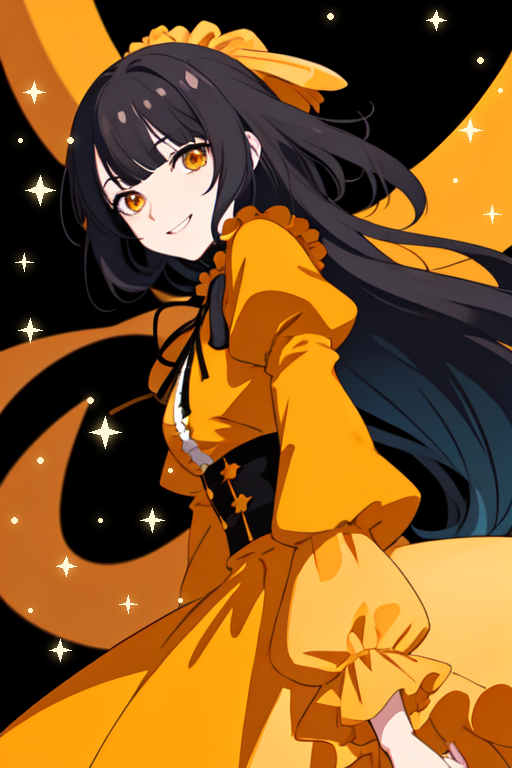
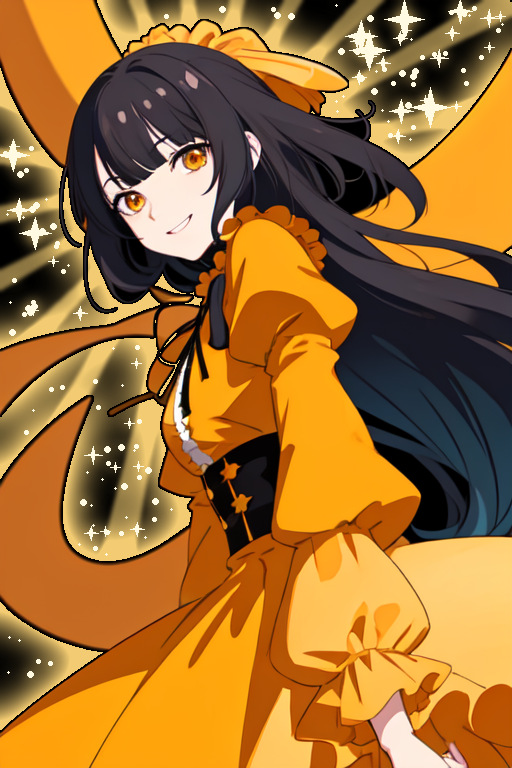
アニメB 03: 後光・光線・キラキラを背景だけに追加(人物の画素は変更なし)
Claude-Session: https://claude.ai/code/session_0113YPYwcnftxFc8SGzBWbWR

diff --git a/scripts/add_sparkles.py b/scripts/add_sparkles.py
@@ -1,44 +1,116 @@
-"""背景にキラキラ(4つの尖った星と小さな光の粒)を足すプログラム。人物には触れない(位置を手で指定)。
+"""黒い背景に、金色の後光・放射状の光線・たくさんのキラキラを足すプログラム。人物には一切触れない。
 
-使い方: python scripts/add_sparkles.py 元画像.png 出力.png
-(ユーザーの個別の依頼で、03番のBに使った。部分修正の一種なので、依頼があるときだけ使うこと。)
+人物のまわりの「ふちが黒(0,0,0)でつながった背景」だけを見つけて、その上にだけ光を重ねる。
+背景以外の画素(人物・服・オレンジのうねり)は、1画素も変わらない。
+使い方: python scripts/add_sparkles.py 元画像.png 出力.png [--center 200 170]
+(ユーザーの個別の依頼で、アニメB・03番に使った。部分修正の一種なので、依頼があるときだけ使うこと。)
 """
+import math
 import sys
+from collections import deque
 
 import numpy as np
 from PIL import Image, ImageDraw, ImageFilter
 
-src, dst = sys.argv[1], sys.argv[2]
-im = Image.open(src).convert("RGB")
-W, H = im.size
-# (x, y, 半径): 背景(黒・オレンジのうねり)の上だけに置く。髪・服の上には置かない
-STARS = [(34, 92, 11), (40, 190, 15), (24, 262, 9), (105, 432, 16), (152, 520, 12), (66, 566, 10), (128, 604, 9),
-         (436, 20, 10), (470, 130, 12), (492, 214, 9), (30, 330, 12), (60, 650, 11)]
-DOTS = [(70, 140, 3), (20, 140, 2), (90, 400, 3), (170, 470, 2), (40, 460, 3), (180, 600, 2), (480, 60, 3), (455, 180, 2),
-        (500, 90, 2), (14, 520, 3), (100, 520, 2), (30, 610, 2), (330, 16, 3)]
+args = sys.argv[1:]
+cx, cy = 200, 170
+if "--center" in args:
+    i = args.index("--center")
+    cx, cy = int(args[i + 1]), int(args[i + 2])
+    del args[i:i + 3]
+src, dst = args[0], args[1]
+img = Image.open(src).convert("RGB")
+W, H = img.size
+a = np.asarray(img, dtype=np.int32)
+
+# 1. 背景 = 画像のふちから続く純黒の領域(帯・ベルトなど人物の中の黒は含めない)
+black = a.max(axis=2) <= 8
+bg = np.zeros((H, W), bool)
+dq = deque()
+for x in range(W):
+    for y in (0, H - 1):
+        if black[y, x] and not bg[y, x]:
+            bg[y, x] = True
+            dq.append((y, x))
+for y in range(H):
+    for x in (0, W - 1):
+        if black[y, x] and not bg[y, x]:
+            bg[y, x] = True
+            dq.append((y, x))
+while dq:
+    y, x = dq.popleft()
+    for ny, nx in ((y + 1, x), (y - 1, x), (y, x + 1), (y, x - 1)):
+        if 0 <= ny < H and 0 <= nx < W and black[ny, nx] and not bg[ny, nx]:
+            bg[ny, nx] = True
+            dq.append((ny, nx))
+# ふち1画素は人物の輪郭になじませるため背景から外す
+bg_img = Image.fromarray((bg * 255).astype(np.uint8)).filter(ImageFilter.MinFilter(3))
+bg = np.asarray(bg_img) > 0
+
+GOLD = np.array([255, 214, 120], float)
+WHITE = np.array([255, 250, 225], float)
+
+# 2. 後光: 人物(背景でない所)のまわりがやわらかく金色に光る
+person = Image.fromarray(((~bg) * 255).astype(np.uint8)).filter(ImageFilter.GaussianBlur(20))
+halo = np.asarray(person, float)[..., None] / 255.0
+halo = np.clip(halo * 2.0, 0, 1) * 0.95
+
+# 3. 放射状の光線(頭のうしろから)
+rays = Image.new("L", (W, H), 0)
+d = ImageDraw.Draw(rays)
+n = 22
+for k in range(n):
+    ang = 2 * math.pi * k / n + 0.07
+    half = math.pi / n * 0.28
+    R = 1200
+    pts = [(cx, cy), (cx + R * math.cos(ang - half), cy + R * math.sin(ang - half)),
+           (cx + R * math.cos(ang + half), cy + R * math.sin(ang + half))]
+    d.polygon(pts, fill=255)
+rays = np.asarray(rays.filter(ImageFilter.GaussianBlur(2)), float)[..., None] / 255.0 * 0.55
+
+# 4. キラキラ(大小の4つ星と光の粒)。背景だけに置く
+rng = np.random.default_rng(7)
+star = Image.new("L", (W, H), 0)
+dot = Image.new("L", (W, H), 0)
+sd, dd = ImageDraw.Draw(star), ImageDraw.Draw(dot)
 
 
-def star_layer(sx, r):
-    layer = Image.new("RGBA", (W, H), (0, 0, 0, 0))
-    d = ImageDraw.Draw(layer)
-    for x, y, rad in sx:
-        k = rad * 0.22
-        pts = [(x, y - rad), (x + k, y - k), (x + rad, y), (x + k, y + k), (x, y + rad), (x - k, y + k), (x - rad, y), (x - k, y - k)]
-        d.polygon(pts, fill=(255, 250, 220, 255))
-    return layer
+def free(x, y, r):
+    y0, y1, x0, x1 = max(0, y - r - 4), min(H, y + r + 5), max(0, x - r - 4), min(W, x + r + 5)
+    return bg[y0:y1, x0:x1].mean() > 0.97
 
 
-sparkle = star_layer(STARS, 1)
-dots = Image.new("RGBA", (W, H), (0, 0, 0, 0))
-dd = ImageDraw.Draw(dots)
-for x, y, r in DOTS:
-    dd.ellipse((x - r, y - r, x + r, y + r), fill=(255, 245, 200, 255))
-glow = Image.alpha_composite(sparkle, dots).filter(ImageFilter.GaussianBlur(5))
-a_glow = np.asarray(glow)[..., 3:4] / 255.0 * 0.85
-base = np.asarray(im, dtype=np.float64)
-out = base * (1 - a_glow) + np.array([255, 215, 120]) * a_glow           # やわらかい光
-core = Image.alpha_composite(sparkle, dots)
-a_core = np.asarray(core)[..., 3:4] / 255.0
-out = out * (1 - a_core) + np.asarray(core)[..., :3] * a_core            # 白い芯
-Image.fromarray(np.clip(out, 0, 255).astype(np.uint8)).save(dst)
-print("保存:", dst)
+placed = 0
+tries = 0
+while placed < 38 and tries < 4000:
+    tries += 1
+    x, y = int(rng.integers(8, W - 8)), int(rng.integers(8, H - 8))
+    r = int(rng.choice([5, 7, 9, 12, 16, 20], p=[0.25, 0.25, 0.2, 0.15, 0.1, 0.05]))
+    if not free(x, y, r):
+        continue
+    k = r * 0.2
+    sd.polygon([(x, y - r), (x + k, y - k), (x + r, y), (x + k, y + k), (x, y + r), (x - k, y + k), (x - r, y), (x - k, y - k)], fill=255)
+    placed += 1
+for _ in range(700):
+    x, y = int(rng.integers(5, W - 5)), int(rng.integers(5, H - 5))
+    r = int(rng.choice([1, 2, 3]))
+    if free(x, y, r):
+        dd.ellipse((x - r, y - r, x + r, y + r), fill=255)
+star_core = np.asarray(star, float)[..., None] / 255.0
+dot_core = np.asarray(dot, float)[..., None] / 255.0
+glow = np.asarray(Image.fromarray(np.maximum(np.asarray(star), np.asarray(dot))).filter(ImageFilter.GaussianBlur(6)), float)[..., None] / 255.0
+
+# 5. 合成。背景の画素だけを変える
+base = a.astype(float)
+bgm = bg[..., None].astype(float)
+light = np.clip(halo + rays, 0, 0.95)
+out = base * (1 - light * bgm) + GOLD * (light * bgm)
+g = np.clip(glow * 0.9, 0, 1) * bgm
+out = out * (1 - g) + GOLD * g
+core = np.clip(star_core + dot_core, 0, 1) * bgm
+out = out * (1 - core) + WHITE * core
+out = np.where(bgm > 0, out, base)
+res = np.clip(out, 0, 255).astype(np.uint8)
+Image.fromarray(res).save(dst)
+changed = np.abs(res.astype(int) - a).max(axis=2) > 0
+print("保存:", dst, "| 変わった画素:", int(changed.sum()), "| うち背景以外:", int((changed & ~bg).sum()))
